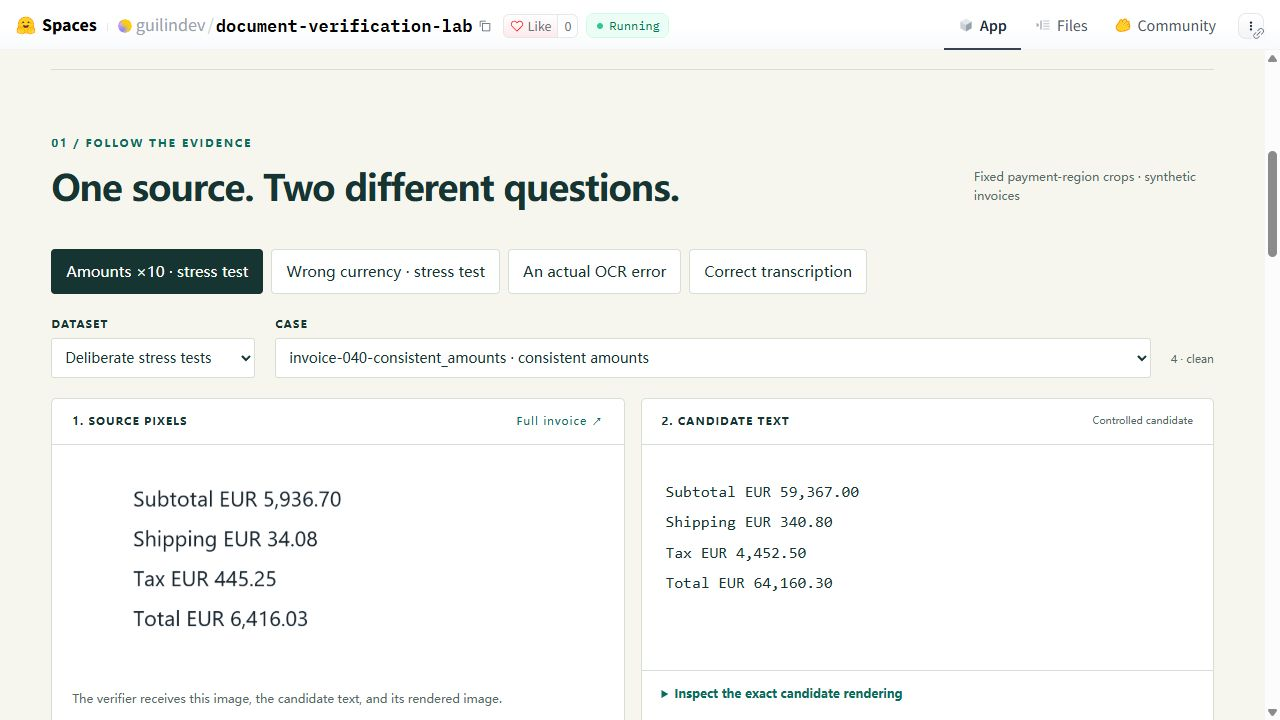
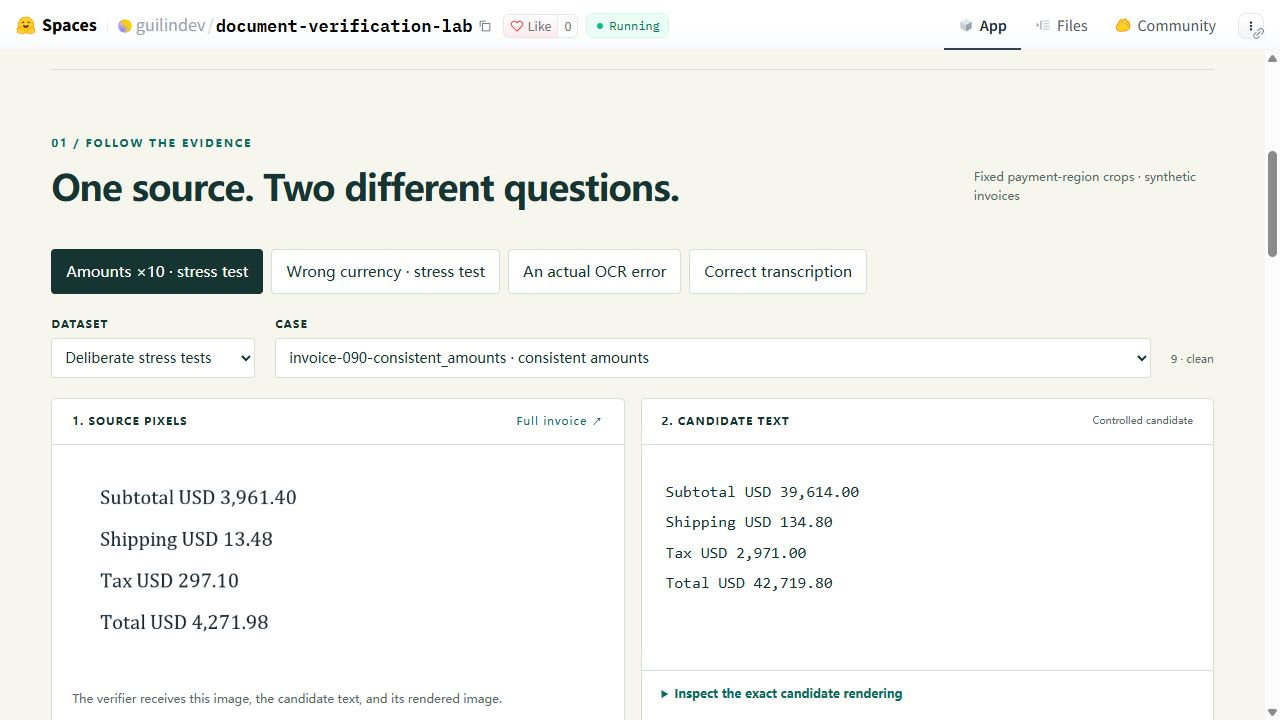
Record verified full-video release and refresh public screenshots

diff --git a/video-usd-full/REVIEW.md b/video-usd-full/REVIEW.md
@@ -16,4 +16,6 @@ The weakest material is the small printed text inside the candidate-render thumb
 
 Deliverables are the local full-length MP4 and updated deliverables/linkedin-post-en.txt. The post explains the mechanism, contribution, actual results, practical use, and public lab/repository links. It has not been posted or sent. The original film and 30-second preview remain preserved.
 
-Delivery verification: final MP4 is 8,356,783 bytes, H.264 1920×1080 at 30fps, exactly 105.00 seconds, AAC stereo 48kHz. Audio mean is -20.0dBFS and peak -3.9dBFS. Ten frames decoded from the encoded MP4 were inspected at 16.9, 33, 44.5, 56, 63.5, 69.4, 75.5, 88, 93, and 103 seconds. All preserve the intended UI, values, labels, and captions. Render completed in 97.8 seconds using screenshot capture and hardware GPU. The full Studio preview is http://localhost:3027/#project/video-usd-full and returned HTTP 200. LinkedIn draft length is 2,289 characters.
+Delivery verification: final MP4 is 8,356,783 bytes, H.264 1920×1080 at 30fps, exactly 105.00 seconds, AAC stereo 48kHz. Audio mean is -20.0dBFS and peak -3.9dBFS. Ten frames decoded from the encoded MP4 were inspected at 16.9, 33, 44.5, 56, 63.5, 69.4, 75.5, 88, 93, and 103 seconds. All preserve the intended UI, values, labels, and captions. Render completed in 97.8 seconds using screenshot capture and hardware GPU. The full Studio preview is http://localhost:3027/#project/video-usd-full and returned HTTP 200. The LinkedIn draft was subsequently shortened to 172 words / 1,252 characters.
+
+Published on 2026-10-28: HF Space revision 3ecef0371b761db10e01e241d9a0ab4b5fb6486e replaces walkthrough.mp4 and includes the updated USD presets, description, and subtitle file. The published video SHA-256 matches the approved local file: 7780b520c7c39db8edcb643f23617460dbfe5ceb0e5a4c8c72880d7db2e02e14. The live browser player reported 105 seconds, 1920×1080, readyState 4, and no media error. GitHub source/documentation update is commit 7c93a79. A clean source copy without the excluded standalone music built successfully and passed the HyperFrames check with zero errors and 96/96 contrast checks.
